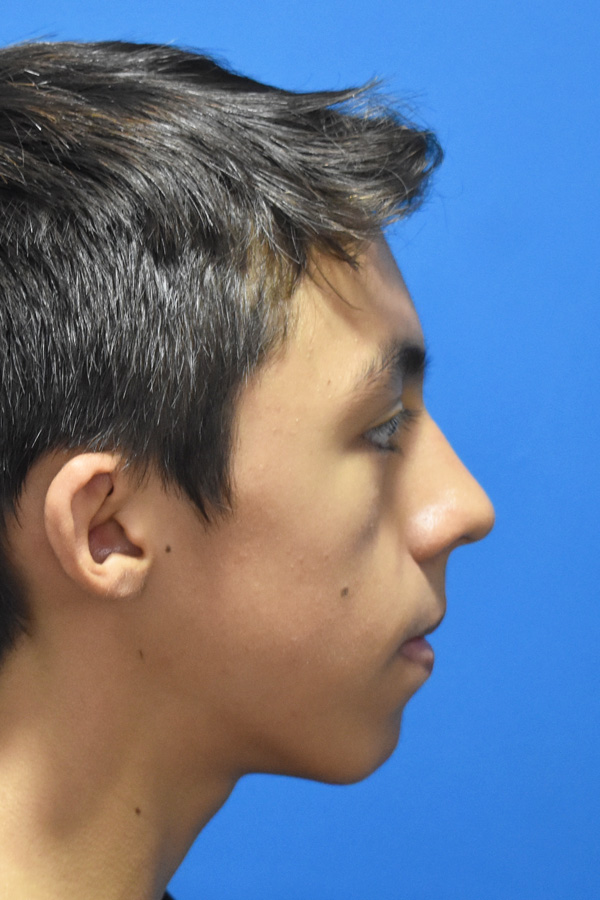
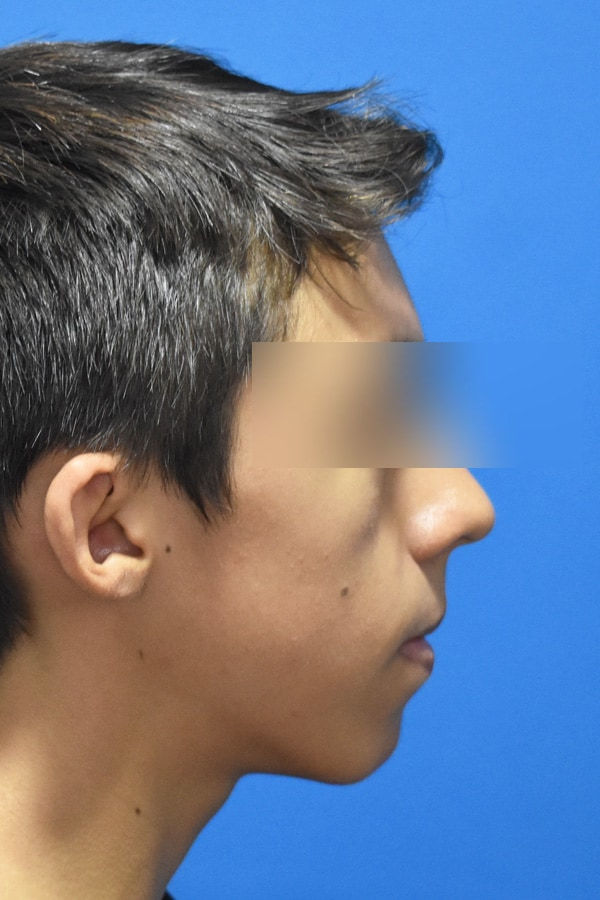
Anonymize 'Paciente I' + editorial redesign of case detail page
Privacy
- Add scripts/anonymize-case.mjs: per-photo eye-band blur using sharp.
  Bands calibrated separately for 'antes' (face higher in frame) and
  'despues' (face lower, larger images). Runs in-place on the project
  copy; raw originals stay outside the repo.
- All 6 face photos (frente/sonrisa/perfil × antes/despues) now have
  the ocular region blurred — patient can no longer be identified
  from the published images.
- Rename patient field: 'Joel S. — Adolescente' → 'Paciente I'.
  The slug stays as 'joel' for URL stability.
- Consent attestation card now mentions the eye blur as an extra
  privacy layer on top of the signed authorization.

Editorial redesign of /casos-destacados/[slug]
- Hero pair shrunk to ~210px wide per side and parked in a sticky
  right-column aside — no longer the dominant visual element.
- Each of the 8 clinical views is now its own editorial row:
  • 12-col grid, text 5/12 + image-pair 7/12
  • Alternating L/R alignment row-by-row for visual rhythm
  • Numbered (01..08), eyebrow, title, full descriptive paragraph
  • Image pair capped at 460px width with smaller shadow + rounded
- Expanded each pair's description in joel.md to give every view a
  meaningful clinical narrative (4-5 lines vs the previous 1 line).
- Hero ficha simplified to the two key items (diagnóstico, tratamiento);
  the stats moved into the eyebrow strip under the title.

Build: 6 pages, 83 image variants, 0 errors.

Changed region(s): [[0.51, 0.3733, 0.84, 0.5289], [0.42, 0.3733, 0.51, 0.4667]]

diff --git a/src/content/casos-destacados/joel.md b/src/content/casos-destacados/joel.md
@@ -1,6 +1,6 @@
 ---
 slug: joel
-patient: "Joel S. — Adolescente"
+patient: "Paciente I"
 age_at_start: 12
 age_at_end: 15
 duration_months: 30
@@ -14,28 +14,28 @@ hero_pair: sonrisa
 pairs:
   - key: sonrisa
     title: "Sonrisa"
-    description: "El cambio más visible — mordida y línea media restablecidas, sonrisa armónica."
+    description: "El cambio más visible. En el antes, los dientes inferiores ocultan a los superiores al sonreír — el sello característico de la mordida cruzada. En el después, la relación incisiva es normal: los superiores cubren ligeramente a los inferiores y la línea media está centrada con la cara."
   - key: frente
-    title: "Frente — reposo"
-    description: "Equilibrio facial recuperado en posición de reposo."
+    title: "Vista frontal — reposo"
+    description: "Sin la tensión de mantener la mordida cerrada de forma forzada, los labios reposan en posición natural y el tercio inferior de la cara recupera proporción. La armonía facial en reposo es uno de los mejores indicadores de que el tratamiento alcanzó equilibrio funcional."
   - key: perfil
     title: "Perfil"
-    description: "Mejor relación entre maxilar y mandíbula sin necesidad de cirugía. Buena parte del cambio responde al manejo del crecimiento."
+    description: "El cambio de perfil tiene dos componentes: el manejo ortopédico del crecimiento del maxilar superior y el crecimiento natural del paciente entre los 12 y 15 años. La ortodoncia por sí sola no modifica tanto el perfil — fue el momento del diagnóstico lo que abrió esta posibilidad."
   - key: mordida
-    title: "Mordida — vista frontal"
-    description: "De mordida cruzada anterior (dientes inferiores por delante de los superiores) a relación incisiva normal."
+    title: "Mordida — vista intraoral frontal"
+    description: "Esta es la imagen diagnóstica clave. En el antes se observa cómo los incisivos inferiores quedan por delante de los superiores (mordida cruzada anterior). En el después, la relación es la fisiológica: superiores cubriendo a los inferiores 1–2 mm."
   - key: lateral-derecho
-    title: "Vista intraoral — lateral derecho"
-    description: "Caninos y molares en clase normal."
+    title: "Vista intraoral lateral derecha"
+    description: "Relación canina y molar en clase normal del lado derecho. Las cúspides de los premolares y molares engranan correctamente, distribuyendo la carga masticatoria de manera fisiológica."
   - key: lateral-izquierdo
-    title: "Vista intraoral — lateral izquierdo"
-    description: "Oclusión simétrica restablecida en ambos lados."
+    title: "Vista intraoral lateral izquierda"
+    description: "Misma normalización del lado izquierdo. La simetría de la oclusión entre ambos lados es esencial: previene desgastes asimétricos, dolor mandibular unilateral y problemas de articulación temporomandibular a futuro."
   - key: arcada-superior
     title: "Arcada superior — vista oclusal"
-    description: "Forma de arco normalizada y alineación de dientes superiores."
+    description: "La forma del arco maxilar superior se normalizó: pasó de un arco contraído (uno de los componentes de la clase III esquelética) a una forma parabólica con ancho transversal adecuado. Este cambio se logró con el expansor palatino al inicio del tratamiento."
   - key: arcada-inferior
     title: "Arcada inferior — vista oclusal"
-    description: "Apiñamiento corregido con plan de retención definitivo."
+    description: "El apiñamiento inferior leve se resolvió alineando los dientes y manteniéndolos con un retenedor fijo (alambre por lingual). La retención permanente es la única forma confiable de mantener la alineación inferior a largo plazo."
 order: 1
 published: true
 ---
